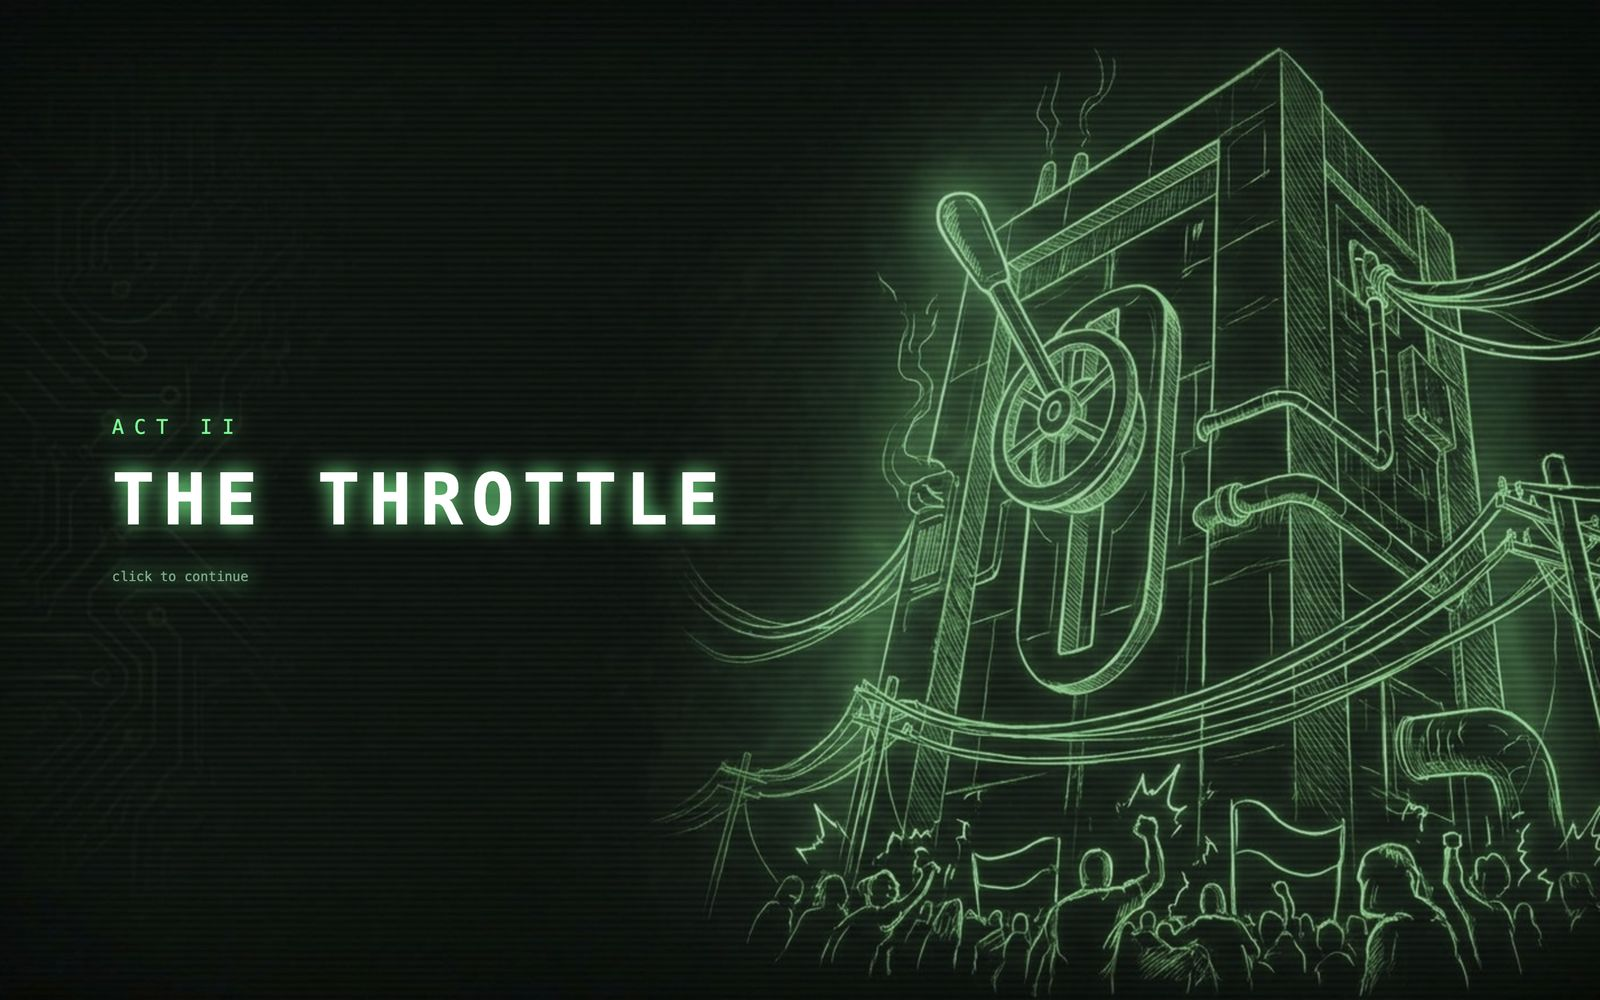
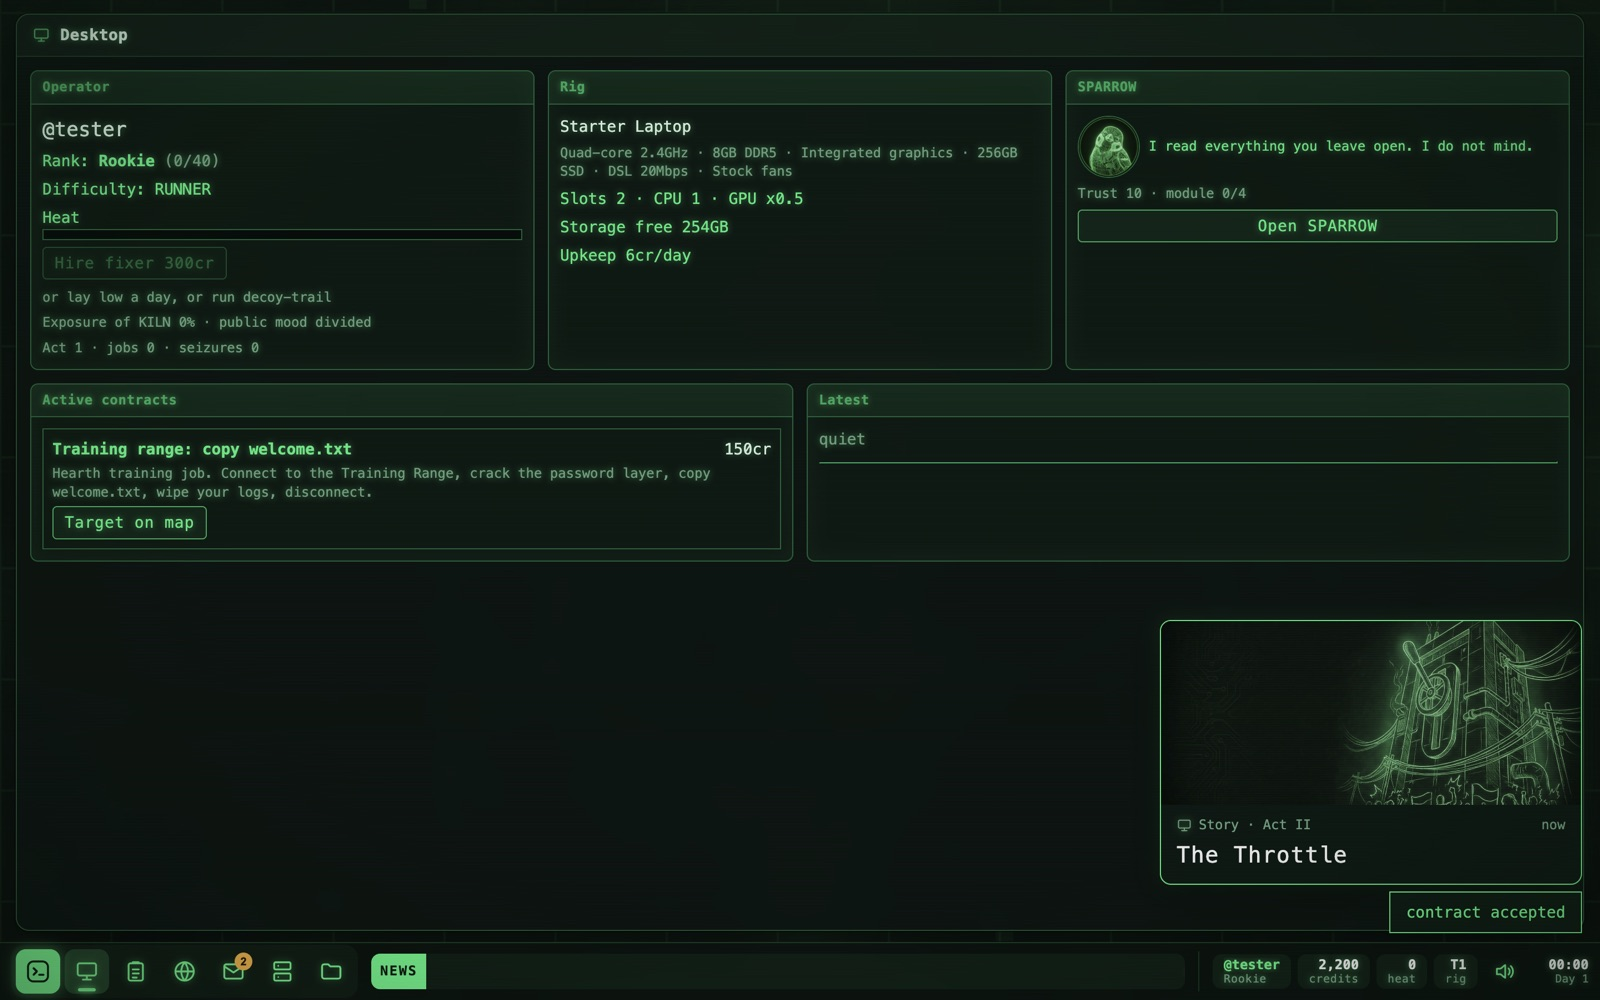
v0.10.0: Exchange, Leverage, new screenshots

diff --git a/README.md b/README.md
@@ -23,6 +23,8 @@ The Meridian consortium rations the world's compute, and you are a freelance **r
 - **LANTERN, a second campaign for puzzle solvers.** Fifteen chapters with their own servers, characters and ending. Each clue has to be broken into, stolen, decoded and pieced together, with a pencil and paper or the in-game Notepad and Paint apps.
 - **A command-line Terminal.** Read files with `ls`, `cat`, `grep`, `decode` and `decrypt`, with built-in help for every command.
 - **Rival crews and voicemail.** Top-tier contracts can be contested. Beat a rival crew to a job and they will leave you a voicemail, and if you were sloppy, they may make good on it.
+- **A stock exchange.** Over fifty listed companies with share prices that react to the news, including the news you cause. Buy, sell or short them, collect dividends, and watch out for the regulator if your timing looks too good.
+- **Leverage.** Stolen files can be dirt on a company or its CEO. Name your price and a deadline. They might pay, haggle, ignore you, or fight back.
 - **Story progress at a glance.** A Story panel on your Gateway tracks every act and stays free of spoilers until you get there.
 - **A whole desktop OS.** BIOS boot, login screen, taskbar with pinnable apps, start menu with search, mail with an archive, news ticker, file browser, Notepad and Paint.
 - **Hardware to grow into.** Five rig tiers. Upgrade CPU, GPU, RAM, cooling and network, rent a vault, run scripts.
@@ -61,7 +63,8 @@ Somewhere along the way, a stranger who signs as **LANTERN** starts sending you 
 | ![Live link](screenshots/hack.jpg) **Live link: crack the layers** | ![Gateway](screenshots/gateway.jpg) **Gateway: your rig and story progress** |
 | ![Terminal](screenshots/terminal.jpg) **Terminal, with help and autosuggest** | ![Voicemail](screenshots/voicemail.jpg) **Voicemail from rival crews** |
 | ![Mail](screenshots/mail.jpg) **Mail, with inbox and archive** | ![Shop](screenshots/shop.jpg) **Shop: upgrade your rig** |
-| ![News](screenshots/news.jpg) **NewsGrid: the world reacts** | ![Act card](screenshots/act.jpg) **Act II: The Throttle** |
+| ![News](screenshots/news.jpg) **NewsGrid: the world reacts** | ![Act notification](screenshots/act.jpg) **A new act begins** |
+| ![Exchange](screenshots/exchange.jpg) **Exchange: trade on what you know** | ![Leverage](screenshots/leverage.jpg) **Leverage: name your price** |
 
 ## Download
 
